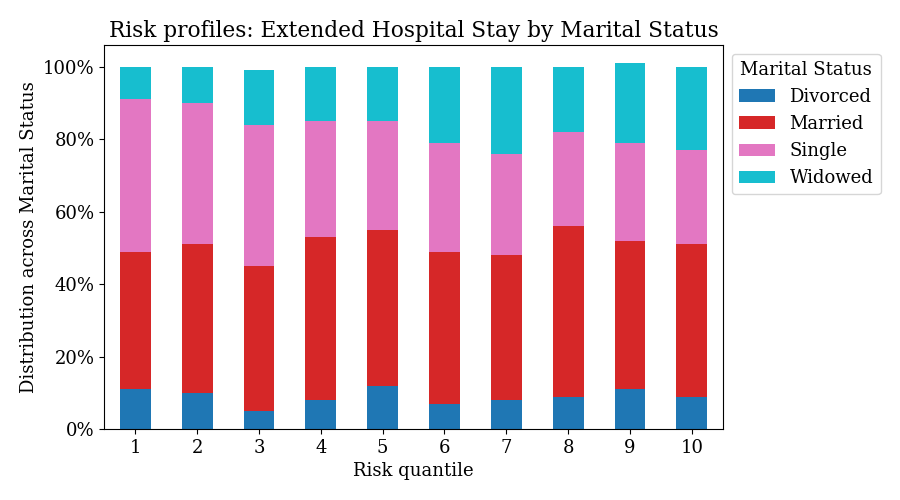
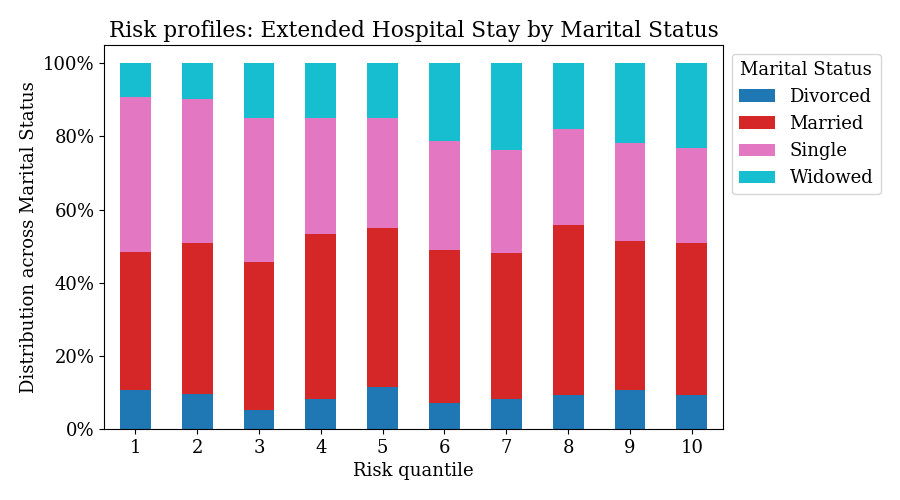
Refactor evaluation script to improve model path handling and output directory creation; update plotting parameters and record ground-truths and probabilities.

diff --git a/src/utils/eval_utils.py b/src/utils/eval_utils.py
@@ -72,7 +72,7 @@ def plot_pr(y_test: np.array, prob: np.array,
     plt.plot([0, 1], [prevalence, prevalence], color='navy', lw=1.5, linestyle='--')
     plt.xlabel('Recall')
     plt.ylabel('Precision')
-    plt.title(f'PR ({outcome}, prevalence {(100*prevalence):.2f})%')
+    plt.title(f'PR ({outcome}, prevalence {(100*prevalence):.2f}%)')
     plt.legend(loc="lower right")
     plt.savefig(output_path)
     print(f"Precision-Recall curve saved to {output_path}")
@@ -121,14 +121,18 @@ def expect_f1(y_prob: np.array, thres: int) -> float:
     Returns:
         float: Expected F1 score.
     """
-    y_pred = (y_prob >= thres).astype(int)
-    tp = np.sum((y_pred == 1) & (y_prob == 1))
-    fp = np.sum((y_pred == 1) & (y_prob == 0))
-    fn = np.sum((y_pred == 0) & (y_prob == 1))
-    precision = tp / (tp + fp)
-    recall = tp / (tp + fn)
-    f1 = 2 * (precision * recall) / (precision + recall)
-    return f1
+    #y_pred = (y_prob >= thres).astype(int)
+    idx_tp = np.where(y_prob >= thres)[0]
+    idx_fn = np.where(y_prob < thres)[0]
+    tp = y_prob[idx_tp].sum()
+    fn = y_prob[idx_fn].sum()
+    fp = len(idx_tp) - tp
+    #fp = np.sum((y_pred == 1) & (y_prob == 0))
+    #fn = np.sum((y_pred == 0) & (y_prob == 1))
+    #precision = tp / (tp + fp)
+    #recall = tp / (tp + fn)
+    #f1 = 2 * (precision * recall) / (precision + recall)
+    return 2 * tp / (2 * tp + fp + fn) if (2 * tp + fp + fn) > 0 else 0
 
 def optimal_threshold(y_prob: np.array) -> float:
     """
@@ -140,9 +144,11 @@ def optimal_threshold(y_prob: np.array) -> float:
     Returns:
         float: Optimal threshold.
     """
-    thresholds = np.linspace(0, 1, 100)
-    f1_scores = [expect_f1(y_prob, thres) for thres in thresholds]
-    optimal_thres = thresholds[np.argmax(f1_scores)]
+    #thresholds = np.linspace(0, 1, 100)
+    y_prob = np.sort(y_prob[::-1])
+    f1_scores = [expect_f1(y_prob, p) for p in y_prob]
+    #optimal_thres = thresholds[np.argmax(f1_scores)]
+    optimal_thres = y_prob[np.argmax(f1_scores)]
     return optimal_thres
 
 def get_roc_performance(y_test: np.array, prob: np.array,
@@ -159,8 +165,8 @@ def get_roc_performance(y_test: np.array, prob: np.array,
         print('Classification report for J threshold:')
         print(classification_report(y_test, bin_labels, target_names=['0', '1']))
 
-    print(y_test, y_test.shape)
-    print(prob, prob.shape)
+    #print(y_test, y_test.shape)
+    #print(prob, prob.shape)
     aucss, ci = cfi.roc_auc_score(y_test, prob, confidence_level=0.95)
     ppv, cip = cfi.ppv_score(y_test, bin_labels, confidence_level=0.95)
     npv, cin = cfi.npv_score(y_test, bin_labels, confidence_level=0.95)
@@ -175,15 +181,15 @@ def get_roc_performance(y_test: np.array, prob: np.array,
     res_dict_roc['roc_auc'] = aucss
     res_dict_roc['roc_upper'] = ci[1]
     res_dict_roc['roc_lower'] = ci[0]
-    res_dict_roc['fpr'] = fpr
-    res_dict_roc['tpr'] = tpr
+    #res_dict_roc['fpr'] = fpr
+    #res_dict_roc['tpr'] = tpr
     return bin_labels, res_dict_roc
 
 def get_pr_performance(y_test: np.array, prob: np.array,
                        bin_labels: np.array, opt_f1: bool = True,
                        verbose: bool = False):
     
-    precision, recall, th = precision_recall_curve(y_test, prob, pos_label=1)
+    precision, recall, _ = precision_recall_curve(y_test, prob, pos_label=1)
     res_dict_pr = {}
     ### Get F1 score
     f1 = f1_score(y_test, bin_labels)
@@ -203,10 +209,10 @@ def get_pr_performance(y_test: np.array, prob: np.array,
         tnr, cit = cfi.tnr_score(y_test, bin_labels, confidence_level=0.95)
         tpr, cis = cfi.tpr_score(y_test, bin_labels, confidence_level=0.95)
         if verbose:
-            print("PPV: {:.3f} [{:.3f}, {:.3f}]".format(ppv, cip[0], cip[1]))
-            print("NPV: {:.3f} [{:.3f}, {:.3f}]".format(npv, cin[0], cin[1]))
-            print("Specificity: {:.3f} [{:.3f}, {:.3f}]".format(tnr, cit[0], cit[1]))
-            print("Sensitivity: {:.3f} [{:.3f}, {:.3f}]".format(tpr, cis[0], cis[1]))
+            print("PPV (Precision): {:.3f} [{:.3f}, {:.3f}]".format(ppv, cip[0], cip[1]))
+            print("NPV (N-Precision): {:.3f} [{:.3f}, {:.3f}]".format(npv, cin[0], cin[1]))
+            print("Specificity (TNR): {:.3f} [{:.3f}, {:.3f}]".format(tnr, cit[0], cit[1]))
+            print("Sensitivity (TPR): {:.3f} [{:.3f}, {:.3f}]".format(tpr, cis[0], cis[1]))
 
     ### Get 95% CI for PR AUC by computing covariance matrix from Z-score
     fp = np.sum((bin_labels == 1) & (y_test == 0))
@@ -227,8 +233,8 @@ def get_pr_performance(y_test: np.array, prob: np.array,
     ub = auc_score + 1.96 * auc_se
     if verbose:
         print("PR-AUC with 95% CI: {:.3f} [{:.3f}, {:.3f}]".format(auc_score, lb, ub))
-        print("Precision: {:.3f} [{:.3f}, {:.3f}]".format(prec_s, cip[0], cip[1]))
-        print("Recall: {:.3f} [{:.3f}, {:.3f}]".format(recall_s, cin[0], cin[1]))
+        #print("Precision: {:.3f} [{:.3f}, {:.3f}]".format(prec_s, cip[0], cip[1]))
+        #print("Recall: {:.3f} [{:.3f}, {:.3f}]".format(recall_s, cin[0], cin[1]))
     res_dict_pr['pr_auc'] = auc_score
     res_dict_pr['pr_upper'] = ub
     res_dict_pr['pr_lower'] = lb
@@ -242,11 +248,21 @@ def get_all_roc_pr_summary(res_dicts: list,
                            colors: list = [],
                            output_roc_path: str = "roc_summary.png",
                            output_pr_path: str = "pr_summary.png"):
-    plt.figure(figsize=(6, 6))
+    plt.figure(figsize=(8, 5))
     for res_dict, model, color in zip(res_dicts, models, colors):
-        plt.plot(res_dict['fpr'], res_dict['tpr'], 
+        fpr, tpr, _ = roc_curve(res_dict['y_test'], res_dict['y_prob'], pos_label=1)
+        plt.plot(fpr, tpr, 
                  color=color, lw=1.5, 
                  label=f'{model} (AUC = {res_dict["roc_auc"]:.3f} [{res_dict["roc_lower"]:.3f}, {res_dict["roc_upper"]:.3f}])')
+        ### Get 95% CI for TPR by computing covariance matrix from Z-score
+        tpr_se = np.sqrt((tpr * (1 - tpr)) / len(res_dict['y_test']))
+        z = stats.norm.ppf(1 - 0.05 / 2)
+        tpr_lower = np.maximum(tpr - z * tpr_se, 0)
+        tpr_upper = np.minimum(tpr + z * tpr_se, 1)
+        plt.fill_between(fpr, 
+                        tpr_lower, 
+                        tpr_upper, 
+                        color=color, alpha=0.3)
     plt.plot([0, 1], [0, 1], color='navy', lw=1.5, linestyle='--', label='Random')
     plt.xlabel('False Positive Rate')
     plt.ylabel('True Positive Rate')
@@ -256,17 +272,19 @@ def get_all_roc_pr_summary(res_dicts: list,
     plt.savefig(output_roc_path)
     print(f"ROC summary saved to {output_roc_path}")
 
-    plt.figure(figsize=(6, 6))
+    plt.figure(figsize=(8, 5))
     for res_dict, model, color in zip(res_dicts, models, colors):
-        plt.plot(res_dict['recall'], res_dict['prec'], 
+        precision, recall, _ = precision_recall_curve(res_dict['y_test'], res_dict['y_prob'], pos_label=1)
+        plt.plot(recall, precision, 
                  color=color, lw=1.5, 
-                 label=f'{model} (AUC = {res_dict["pr_auc"]:.3f} [{res_dict["pr_lower"][0]:.3f}, {res_dict["pr_upper"][1]:.3f}])')
-        plt.plot([0,1], [res_dict['prevalence'], res_dict['prevalence']], color=color, lw=1.5, linestyle='--')
+                 label=f'{model} (AUC = {res_dict["pr_auc"]:.3f} [{res_dict["pr_lower"]:.3f}, {res_dict["pr_upper"]:.3f}])')
+        
+    plt.plot([0,1], [res_dict['prevalence'], res_dict['prevalence']], color='black', lw=1.5, linestyle='--')
 
     plt.xlabel('Recall')
     plt.ylabel('Precision')
     plt.title('Precision-Recall Curve (all models)')
-    plt.legend(loc="lower right")
+    plt.legend(loc="upper right")
     plt.tight_layout()
     plt.savefig(output_pr_path)
     print(f"PR summary saved to {output_pr_path}")
@@ -306,7 +324,6 @@ def rank_prediction_deciles(y_test: np.array, prob: np.array,
     plt.legend(loc="upper left")
     plt.savefig(output_path)
     print(f"Risk stratification plot saved to {output_path}")
-    res_dict['outcome_prev'] = avg_resp
     res_dict['10th_decile_rr'] = dec_stats['rr'].iloc[-1]
     #### If stratifying by attribute plot the risk decile distribution for each attribute
     if by_attribute:
@@ -320,7 +337,7 @@ def rank_prediction_deciles(y_test: np.array, prob: np.array,
             eval_long = eval_long.groupby(['decile', f'{attr}_Value'])['decile'].size().reset_index(name='Count')
             eval_y = eval_long.groupby('decile')['Count'].apply(lambda x: x.sum()).reset_index().rename(columns={'Count': 'Total'})
             eval_long = eval_long.merge(eval_y, on='decile', how='left')
-            eval_long['Percentage'] = round(eval_long['Count'] / eval_long['Total'], 2)
+            eval_long['Percentage'] = round(eval_long['Count'] / eval_long['Total'], 5)
             ax = pd.pivot_table(eval_long[['decile', f'{attr}_Value', 'Percentage']], index='decile', 
                                 columns=f'{attr}_Value').plot(kind='bar', stacked=True, figsize=(9, 5),
                                                               title=f'Risk profiles: {outcome} by {disp}',

diff --git a/src/evaluate.py b/src/evaluate.py
@@ -115,26 +115,31 @@ if __name__ == "__main__":
     args = parser.parse_args()
     config = toml.load(args.config)
     targets = toml.load(args.targets)
-    model_path = os.path.join(os.path.join(args.model_dir, args.model_path), args.model_path + ".ckpt")
-    loss_path = os.path.join(os.path.join(args.model_dir, args.model_path), "losses.csv")
-    eval_path = os.path.join(args.eval_path, args.model_path)
-    num_workers = config["data"]["num_workers"]
-    modalities = []
-    for arg in args.model_path.split("_"):
-        if 'static' in arg:
-            modalities.append('static')
-        elif 'timeseries' in arg:
-            modalities.append('timeseries')
-        elif 'notes' in arg:
-            modalities.append('notes')
 
-    static_only = True if (len(modalities) == 1) and ("static" in modalities) else False
-    with_notes = True if "notes" in modalities else False
-    fusion_method = "None"
-    if "mag" in args.model_path:
-        fusion_method = "EF-mag"
-    elif "concat" in args.model_path:
-        fusion_method = "EF-concat"
+    ### Config setup for single-model evaluation
+    if not args.group_models:
+        model_path = os.path.join(os.path.join(args.model_dir, args.model_path), args.model_path + ".ckpt")
+        loss_path = os.path.join(os.path.join(args.model_dir, args.model_path), "losses.csv")
+        eval_path = os.path.join(args.eval_path, args.model_path)
+        if not os.path.exists(eval_path):
+            os.makedirs(eval_path)
+        num_workers = config["data"]["num_workers"]
+        modalities = []
+        for arg in args.model_path.split("_"):
+            if 'static' in arg:
+                modalities.append('static')
+            elif 'timeseries' in arg:
+                modalities.append('timeseries')
+            elif 'notes' in arg:
+                modalities.append('notes')
+
+        static_only = True if (len(modalities) == 1) and ("static" in modalities) else False
+        with_notes = True if "notes" in modalities else False
+        fusion_method = "None"
+        if "mag" in args.model_path:
+            fusion_method = "EF-mag"
+        elif "concat" in args.model_path:
+            fusion_method = "EF-concat"
 
     ### General setup
     outcomes = targets["outcomes"]["labels"]
@@ -150,8 +155,6 @@ if __name__ == "__main__":
     if args.outcome not in outcomes:
         print(f"Outcome {args.outcome} must be included in targets.toml.")
         sys.exit()
-    if not os.path.exists(eval_path):
-        os.makedirs(eval_path)
     outcome_idx = outcomes.index(args.outcome)
     ### Set plotting style
     plt.rcParams.update(
@@ -162,13 +165,15 @@ if __name__ == "__main__":
     ### If --group_models, load results dictionary and generate summary
     if args.group_models:
         print("Generating Precision-Recall summary across all outcomes...")
-        res_all = {}
+        res_all = []
         for model, path in zip(model_names, model_paths):
-            res_dict = load_pickle(path)
-            res_all[model] = res_dict
+            r_path = os.path.join(os.path.join(args.eval_path, path), "pf_" + path + ".pkl")
+            res_dict = load_pickle(r_path)
+            res_all.append(res_dict)
+
         get_all_roc_pr_summary(res_all, model_names, model_colors,
-                               output_roc_path=f"{eval_path}/roc_full_{args.model_path}.png",
-                               output_pr_path=f"{eval_path}/pr_full_{args.model_path}.png")
+                            output_roc_path=f"{args.eval_path}/roc_full_{path}.png",
+                            output_pr_path=f"{args.eval_path}/pr_full_{path}.png")
         print("Evaluation complete.")
         sys.exit()
     print(f'Evaluating performance for outcome "{outcomes_disp[outcome_idx]}"')
@@ -250,7 +255,7 @@ if __name__ == "__main__":
     plot_pr(y_test, prob, outcome=outcomes_disp[outcome_idx], result_dict=res_pr_dict, output_path=f"{eval_path}/pr_{args.model_path}.png")
     print('Plotting calibration curve...')
     plot_calibration_curve(y_test, prob, outcome=outcomes_disp[outcome_idx],
-                           n_bins=args.n_bins,
+                           n_bins=20,
                            output_path=f"{eval_path}/calib_{args.model_path}.png")
     print('------------------------------------------')
     print('Prediction decile analysis:')
@@ -265,6 +270,9 @@ if __name__ == "__main__":
     print('------------------------------------------')
     print('Saving results dictionary...')
     res_dict = res_roc_dict | res_pr_dict | res_pd_dict
+    ### Record ground-truths and probabilities
+    res_dict["y_test"] = y_test
+    res_dict["y_prob"] = prob
     save_pickle(res_dict, eval_path, f"pf_{args.model_path}.pkl")
     print(f"Saved results dictionary to {eval_path}/pf_{args.model_path}.pkl")
     print('Evaluation complete.')
